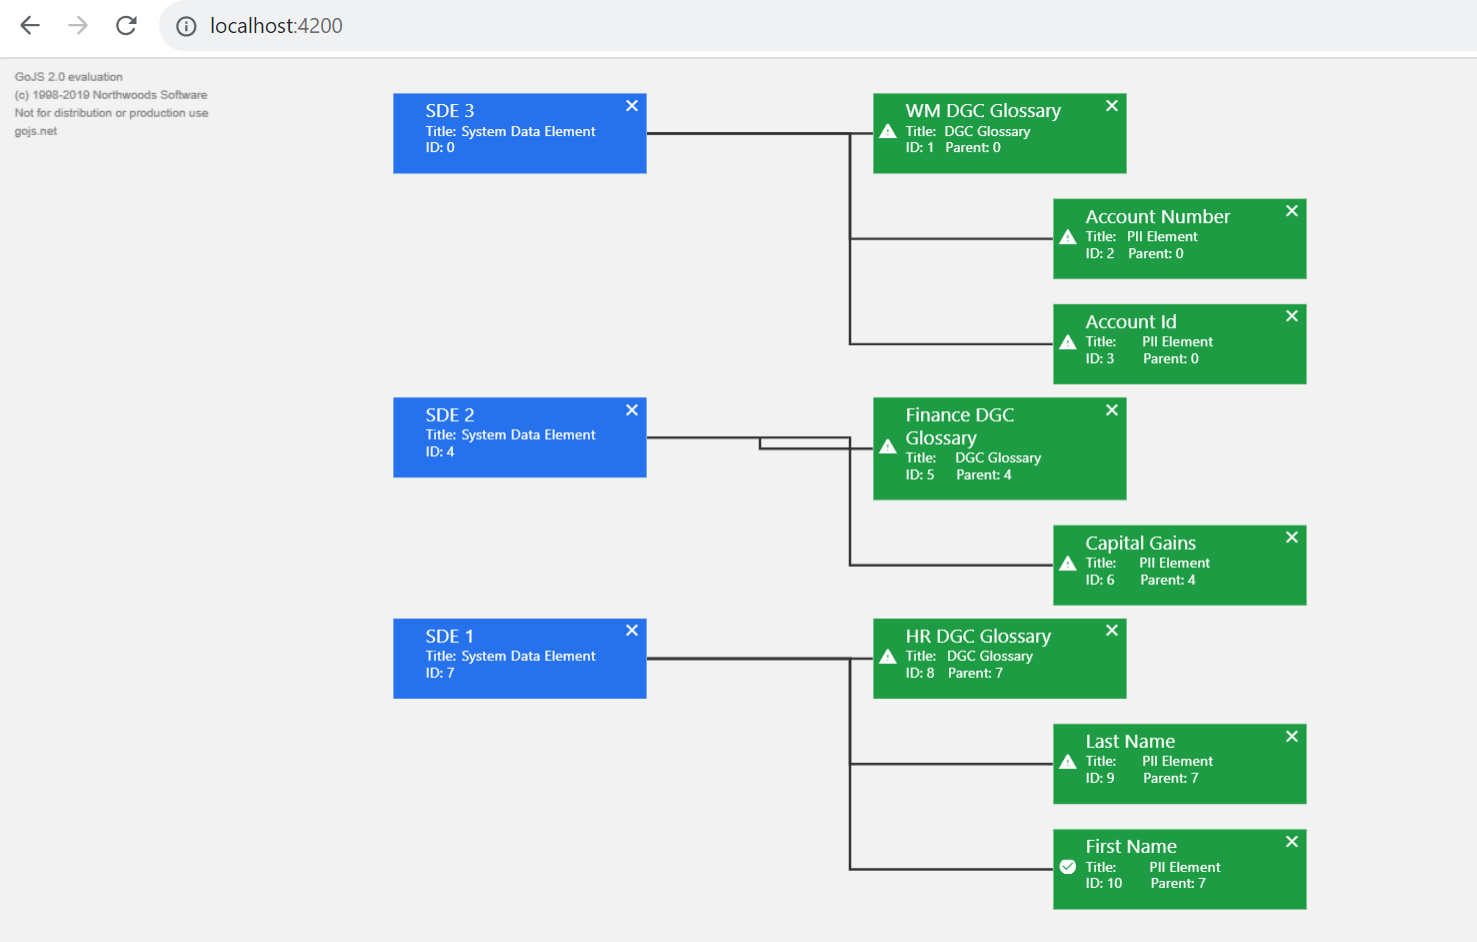
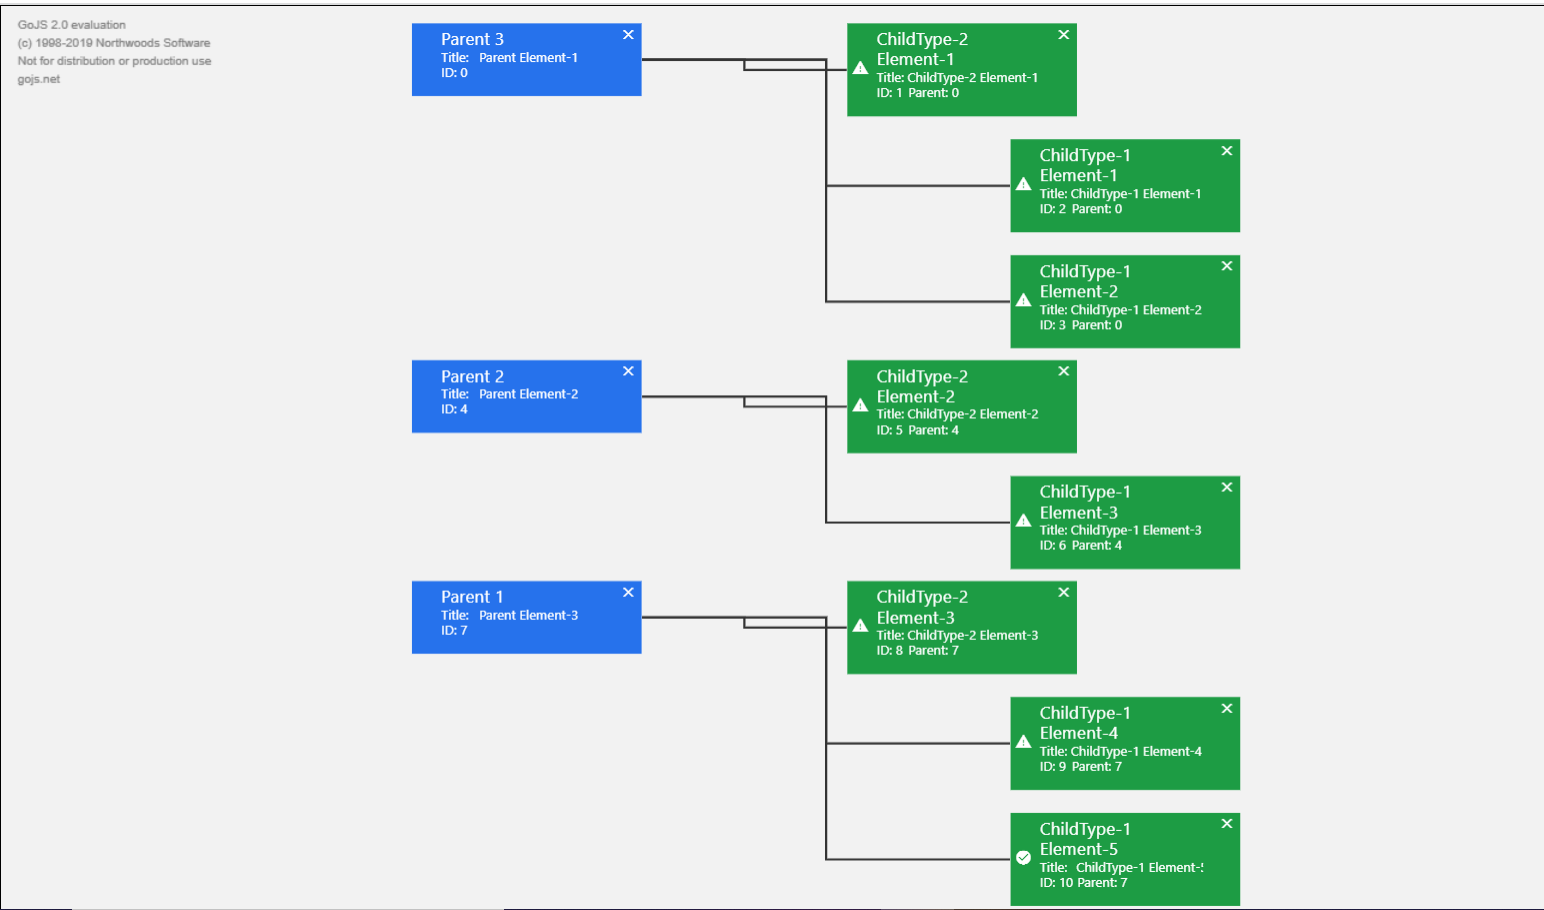
Updated chart data and screenshots

Changed region(s): [[0.0, 0.0, 0.9032, 1.0]]

diff --git a/src/app/app.component.ts b/src/app/app.component.ts
@@ -12,17 +12,17 @@ export class AppComponent {
   public selectedNode = null;
   public model: go.TreeModel = new go.TreeModel(
     [
-      { 'key': 0, 'name': 'SDE 3', 'title': 'System Data Element', 'type': 'SDE' },
-      { 'key': 1, 'name': 'WM DGC Glossary', 'title': 'DGC Glossary', 'parent': 0, 'type': 'DGC' },
-      { 'key': 2, 'name': 'Account Number', 'title': 'PII Element', 'parent': 0, 'type': 'PII' },
-      { 'key': 3, 'name': 'Account Id', 'title': 'PII Element', 'parent': 0, 'type': 'PII' },
-      { 'key': 4, 'name': 'SDE 2', 'title': 'System Data Element', 'type': 'SDE' },
-      { 'key': 5, 'name': 'Finance DGC Glossary', 'title': 'DGC Glossary', 'parent': 4, 'type': 'DGC' },
-      { 'key': 6, 'name': 'Capital Gains', 'title': 'PII Element', 'parent': 4, 'type': 'PII' },
-      { 'key': 7, 'name': 'SDE 1', 'title': 'System Data Element', 'type': 'SDE' },
-      { 'key': 8, 'name': 'HR DGC Glossary', 'title': 'DGC Glossary', 'parent': 7, 'type': 'DGC' },
-      { 'key': 9, 'name': 'Last Name', 'title': 'PII Element', 'parent': 7, 'type': 'PII' },
-      { 'key': 10, 'name': 'First Name', 'title': 'PII Element', 'parent': 7, 'type': 'PII' }
+      { 'key': 0, 'name': 'Parent 3', 'title': 'Parent Element-1', 'type': 'Parent' },
+      { 'key': 1, 'name': 'ChildType-2 Element-1', 'title': 'ChildType-2 Element-1', 'parent': 0, 'type': 'ChildType-2' },
+      { 'key': 2, 'name': 'ChildType-1 Element-1', 'title': 'ChildType-1 Element-1', 'parent': 0, 'type': 'ChildType-1' },
+      { 'key': 3, 'name': 'ChildType-1 Element-2', 'title': 'ChildType-1 Element-2', 'parent': 0, 'type': 'ChildType-1' },
+      { 'key': 4, 'name': 'Parent 2', 'title': 'Parent Element-2', 'type': 'Parent' },
+      { 'key': 5, 'name': 'ChildType-2 Element-2', 'title': 'ChildType-2 Element-2', 'parent': 4, 'type': 'ChildType-2' },
+      { 'key': 6, 'name': 'ChildType-1 Element-3', 'title': 'ChildType-1 Element-3', 'parent': 4, 'type': 'ChildType-1' },
+      { 'key': 7, 'name': 'Parent 1', 'title': 'Parent Element-3', 'type': 'Parent' },
+      { 'key': 8, 'name': 'ChildType-2 Element-3', 'title': 'ChildType-2 Element-3', 'parent': 7, 'type': 'ChildType-2' },
+      { 'key': 9, 'name': 'ChildType-1 Element-4', 'title': 'ChildType-1 Element-4', 'parent': 7, 'type': 'ChildType-1' },
+      { 'key': 10, 'name': 'ChildType-1 Element-5', 'title': 'ChildType-1 Element-5', 'parent': 7, 'type': 'ChildType-1' }
     ]
   );
   public validationModel: any = [

diff --git a/src/app/diagram/diagram.component.ts b/src/app/diagram/diagram.component.ts
@@ -96,14 +96,14 @@ export class DiagramComponent {
     function validationIcon1(that) {
       return $(go.TextBlock,
         new go.Binding("text", "", (k) => {
-          if (k.type != "SDE") {
+          if (k.type != "Parent") {
             return (that.validationModel[k.key].message ? "\uE002" : "\ue86c");
           } else {
             return "";
           }
         }),
         { font: "16px Material Icons", height: 16, width: 16, margin: 4 },
-        { // for Validation of SDE
+        { // for Validation of Parent
           stroke: lightStroke,
           cursor: 'pointer',
           toolTip: myToolTip
@@ -169,7 +169,7 @@ export class DiagramComponent {
         // bind the Part.layerName to control the Node's layer depending on whether it isSelected
         new go.Binding('layerName', 'isSelected', function (sel) { return sel ? 'Foreground' : ''; }).ofObject(),
         new go.Binding("location", "", (k) => {
-          return k.part.data.type == 'SDE' ? new go.Point(k.part.location.x, k.part.location.y) : ( k.part.data.type == 'DGC' ? new go.Point(400, k.part.location.y) : new go.Point(550, k.part.location.y));
+          return k.part.data.type == 'Parent' ? new go.Point(k.part.location.x, k.part.location.y) : ( k.part.data.type == 'ChildType-2' ? new go.Point(400, k.part.location.y) : new go.Point(550, k.part.location.y));
         }).ofObject(),
         // define the node's outer shape
         $(go.Shape, 'Rectangle',
@@ -245,7 +245,7 @@ export class DiagramComponent {
           ),  // end Table Panel
           $(go.Panel, "Horizontal",
             { row: 1, alignment: new go.Spot(1, 0) },
-            icon("\uE5CD", { // click this to delete an SDE
+            icon("\uE5CD", { // click this to delete an Parent
               stroke: lightStroke,
               cursor: 'pointer',
               click: (e, obj) => {
